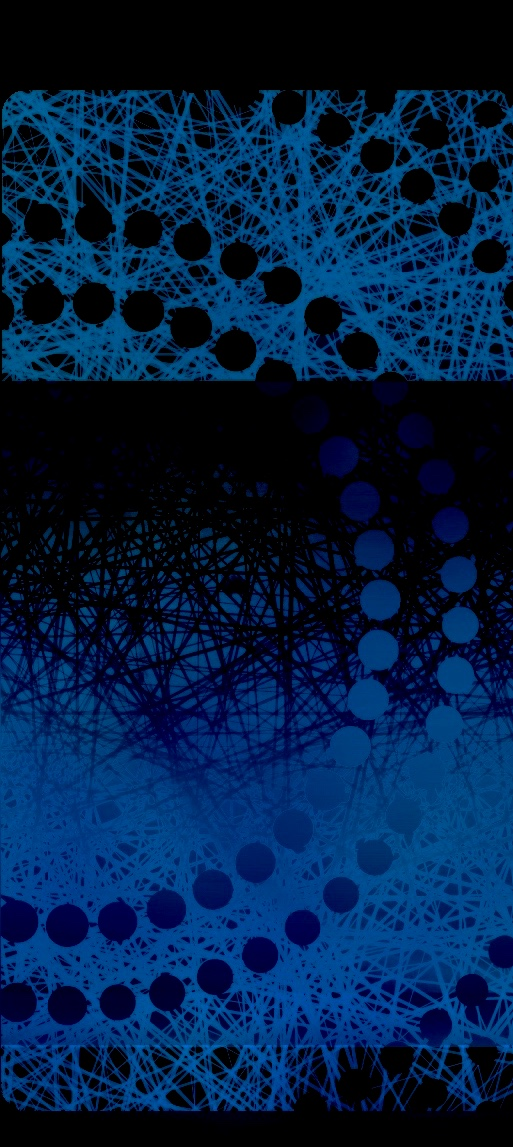
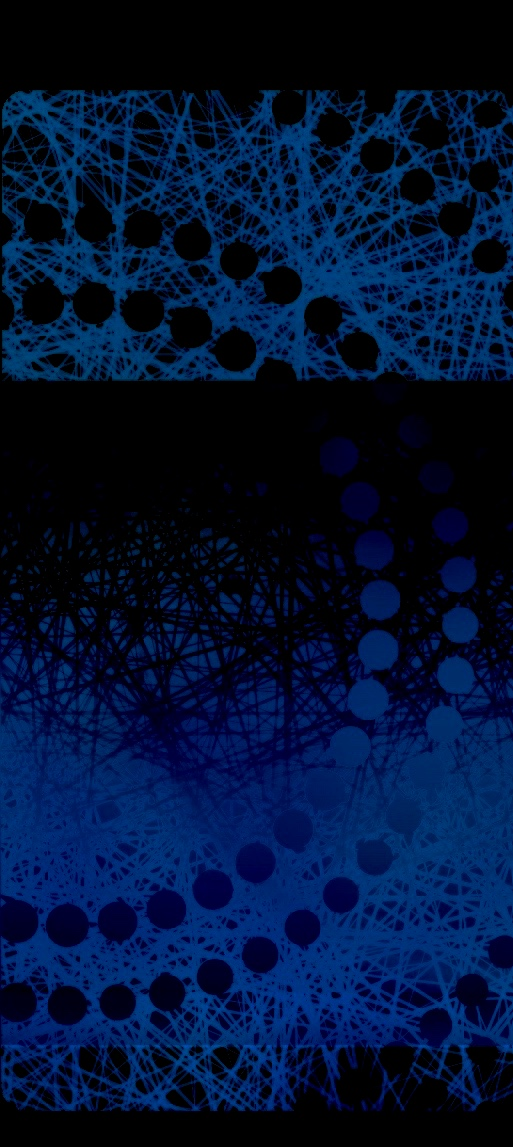
Design
csolback.jpg darkened, footer image (footer_big.jpg) rotated + added 3 columns which are prepared for icons - links to github, facebook & twitter

diff --git a/univers/more-info.html b/univers/more-info.html
@@ -160,7 +160,7 @@
                   <br><br>
                   <div class="wrapper" style="padding:10px 10px 10px 10px;">
 
-                    <a id="more_blogel" href="" class="btn btn-primary btn-lg btn-more_blog">MORE INFO <i>(Blog)</i></a>
+                    <a id="more_blogel" href="" class="btn btn-primary btn-lg btn-more_blog">MORE INFO</a>
   
     
                   </div>
@@ -195,7 +195,7 @@
       </div>
     </div>
 
-    <div class="hero-full-container background-image-container white-text-container">
+    <div class="hero-full-container background-image-container white-text-container row">
       <div class="col-sm-12 section-container-spacer">
   
         <div  class="container">
@@ -204,6 +204,14 @@
                 Because
               </div>
         </div>
+
+        <div class="wrapper container">
+                  
+          
+          <div style="color:white;float:left;font-size:1.5em;width: 100%;"><div id="" class="clip-text4 clip-text_one " style="float:left;font-size: 20px;">● </div>You can track our progress of the development of this site. Android app and more. We are pushing commits to the github repository almost everyday. The code will be open source no matter what. This is how we roll.</div>
+
+
+        </div>
         
       </div>
     </div>
@@ -211,17 +219,34 @@
 
 
     <div class="hero-full-container background-image-container white-text-container">
+      
       <div class="col-sm-12 section-container-spacer">
   
-        <div  class="container" style="background-image: url('./assets/images/footer_big.jpg');height:523px;background-position:center;background-repeat: no-repeat;">
+        <div  class="container" >
+
           
-              <div id="bodyel4" class="moreinfo_who_text2 first_hidden" style="height:222px;width:100%;background-color: black;">
-                Footer text & buttons
+              <div id="bodyel4" class="moreinfo_who_text2 first_hidden" style="background-image: url('./assets/images/footer_big.jpg');height:323px;background-position:center;background-repeat: no-repeat;">
+
+                Check out our:
+                <div class="row" style="height:222px;width:99.3%;background-color: rgba(0, 0, 0, .77);">
+                  <div class="col-sm-4">
+Twitter
+                  </div>
+                  <div class="col-sm-4">
+Facebook
+                  </div>
+                  <div class="col-sm-4">
+                    Github
+                  </div>
+
+                </div>
+
               </div>
         </div>
-        
       </div>
     </div>
+      
+  </body>
 
     <!-- <div id="bodyel4" class="hero-full-container background-image-container white-text-container first_hidden" >
       <div class="col-sm-8 col-sm-offset-2 section-container-spacer">
